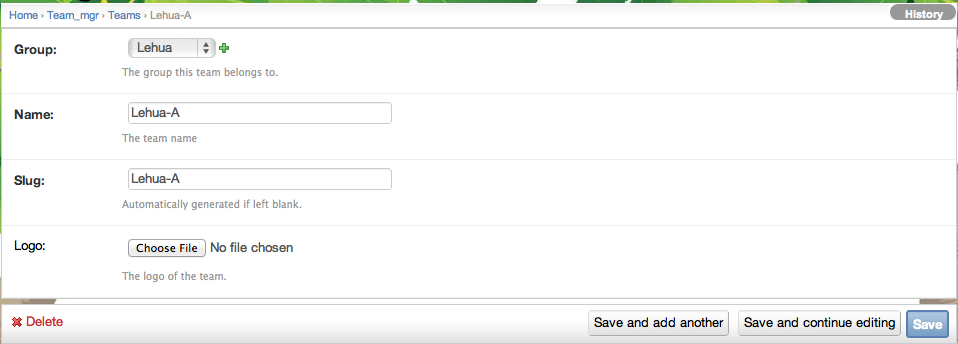
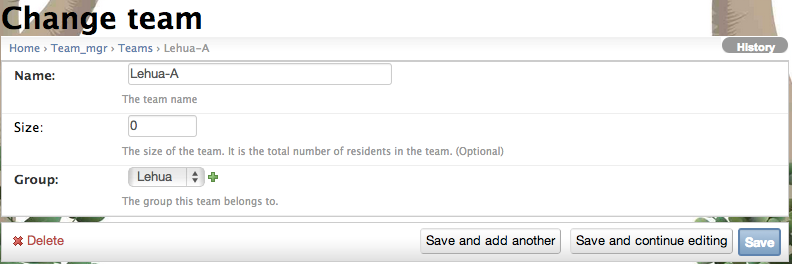
add more specific info about user profile, team settings

diff --git a/doc/challenge-design-players-settings.rst b/doc/challenge-design-players-settings.rst
@@ -49,15 +49,7 @@ After clicking on the "Users" link in the Challenge Design, a page similar to th
 
 To add a new player, click the "Add user" button in the upper right corner. 
 
-
-Defining multiple users through file upload
--------------------------------------------
-
-To load a list of users defined in a csv file, the "Bulk create users" button could be used, which will prompt you to upload a csv file from your local computer.
-
-The format of the csv file is as follows::
-
-    team, firstname, lastname, email, username, password
+This is a two step processes. You will be asked to input the username and password for the user first, then, the next step will ask you to input the user's first name, last name, and other user account info.
 
 About the user profile
 ----------------------
@@ -70,6 +62,10 @@ The following screen shows an example of a player's profile settings looks like:
    :width: 600 px
    :align: center
 
+.. Note:: When creating a user, you will normally want to specify the team this player belongs to. After you create the user, you can click on the Profile link in the user list, and specify the team in this player's profile setting page.
+
+.. Note:: By default, the admin user does not belong to any team. You can temporarily assign the admin user to a team for testing purpose. For example, if you want to see Energy usage of a team, you could temporarily change the admin user to that team then go to the "Go Low" page to see the energy usage. Make sure you un-assign the admin from any team once the testing is done, otherwise, the admin will be participating in the challenge as a team member for the team he is assigned to, which may not be what your intent is.
+
 Changing the information associated with an existing user
 ---------------------------------------------------------
 
@@ -77,6 +73,17 @@ Due to Django, Makahiki stores information about a user in two places:
 
   *  Click on the "username" link to bring up a page to modify basic information about the user. 
   *  Click on the "profile" link to bring up a page to modify additional information about the user.
+
+Defining multiple users through file upload
+-------------------------------------------
+
+To load a list of users defined in a csv file, the "Bulk create users" button could be used, which will prompt you to upload a CSV file from your local computer.
+
+The format of the csv file is as follows::
+
+    team, firstname, lastname, email, username, password
+
+This step will create both the User objects and Profile objects in the system for the users specified in CSV file.
 
 .. note:: Remember to click the Save button at the bottom of the page when finished to save your changes.
 

diff --git a/doc/challenge-design-teams-settings.rst b/doc/challenge-design-teams-settings.rst
@@ -40,7 +40,7 @@ team definition, click the link which brings up a page similar to the following:
    :width: 600 px
    :align: center
 
-Specifying the group is optional. 
+Normally, you can leave the team size as 0. An experimental feature of Makahiki is to specify a non-zero size for each team. By specifying a non-zero team size for each team, the system will use the team size to normalize the participations rate, total team points across different teams.
 
 .. note:: Remember to click the Save button at the bottom of the page when finished to save your changes. 
 
